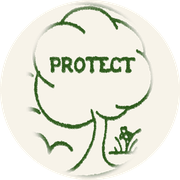
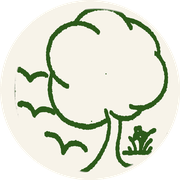
polish: clean up tree mark, feature seal in hero, add arts festival
Tree mark: masks out the ring border by true radius instead of ad-hoc
rectangles, so the three bird flourishes are preserved intact and the
stray ring-line artifacts from the previous crop are gone. Regenerated
favicons, navbar mark, and footer mark from this cleaner version.

Home: moves the seal out of its own "Heritage Mark" section and into
the hero itself, directly under the headline, at a much larger size
(mint ink so it reads against the photo). Restores the full-seal mint
variant for this (deleted earlier when the footer switched to the
tree mark).

Events: adds "Jenkintown Festival of the Arts" (Sep 27, 2026, 1-6pm,
Town Square) from the yearbook's community calendar. Event cards now
support a per-event `time` field instead of hardcoding the standard
11:30 AM club-meeting time for every card, since this one runs on its
own schedule.

Claude-Session: https://claude.ai/code/session_014tztRu1gvvWf8Eb9F6s3eQ

Changed region(s): [[0.0556, 0.0, 0.9444, 1.0]]

diff --git a/src/pages/Home.tsx b/src/pages/Home.tsx
@@ -1,6 +1,7 @@
 import { Link } from 'react-router-dom'
 import { useInView } from '../hooks/useInView'
 import { imgs } from '../images'
+import oyrgcSealMint from '../assets/oyrgc-seal-mint.png'
 import {
   upcomingEvents2026_2027,
   getNextUpcomingEvent,
@@ -72,6 +73,11 @@ export default function Home() {
             <br />
             <em className="not-italic text-mint">Building Community</em>
           </h1>
+          <img
+            src={oyrgcSealMint}
+            alt="Seal of the Old York Road Garden Club, established 1935"
+            className="w-40 sm:w-52 lg:w-60 h-auto mx-auto mb-10"
+          />
           <p className="text-white/85 text-lg sm:text-xl max-w-2xl mx-auto leading-relaxed mb-10">
             For over seven decades, we've united passionate gardeners to enrich
             our neighborhoods through horticultural excellence, civic
@@ -144,7 +150,7 @@ export default function Home() {
                     </h3>
                     <div className="flex flex-wrap gap-5 text-sm text-gray-500 mb-4">
                       <span className="flex items-center gap-1.5">
-                        <ClockIcon /> 11:30 AM ET
+                        <ClockIcon /> {nextEvent.time ?? '11:30 AM ET'}
                       </span>
                       <span className="flex items-center gap-1.5">
                         <LocationIcon />

diff --git a/src/data/upcomingEvents.ts b/src/data/upcomingEvents.ts
@@ -5,6 +5,8 @@ export interface UpcomingEvent {
   presenter?: string
   description?: string
   location?: string
+  /** Overrides the default 11:30 AM ET club meeting time, for events on their own schedule. */
+  time?: string
   /** Slug for a linked Standard Flower Show detail page, when this meeting includes one. */
   flowerShowSlug?: string
 }
@@ -16,6 +18,13 @@ export const upcomingEvents2026_2027: UpcomingEvent[] = [
     type: 'Workshop',
     presenter: 'Marda Craig, Presenter',
     flowerShowSlug: 'sep-2026',
+  },
+  {
+    date: 'Sep 27, 2026',
+    title: 'Jenkintown Festival of the Arts',
+    type: 'Social',
+    time: '1:00 – 6:00 PM',
+    location: 'Town Square, Jenkintown',
   },
   {
     date: 'Oct 8, 2026',

diff --git a/src/pages/Events.tsx b/src/pages/Events.tsx
@@ -225,7 +225,7 @@ export default function Events() {
                       </h3>
                       <div className="flex flex-wrap gap-x-4 gap-y-1 text-sm text-gray-500 mb-2">
                         <span className="flex items-center gap-1.5">
-                          <ClockIcon /> 11:30 AM ET
+                          <ClockIcon /> {e.time ?? '11:30 AM ET'}
                         </span>
                         <span className="flex items-center gap-1.5">
                           <LocationIcon />
